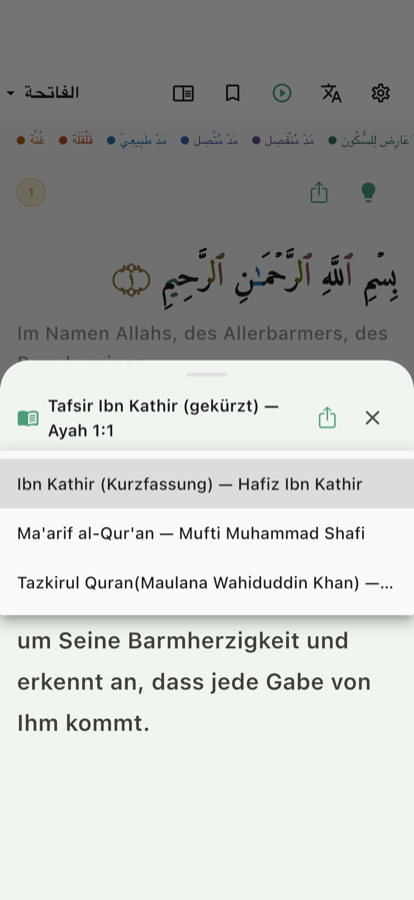
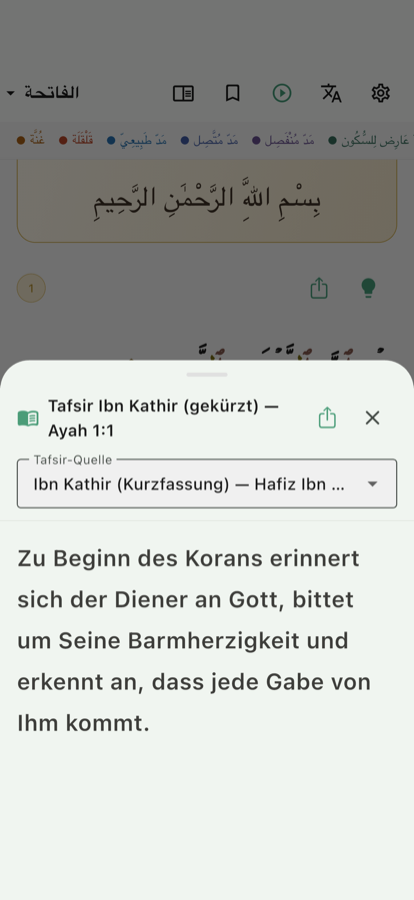
Fix onboarding guide images showing English sheet and hidden tafsir
Two guide images were wrong in all eight locales.

03-listen-ayah shipped the hardcoded-English "Play All options" sheet.
That sheet only appears when the surah is not fully cached, and the
fixture seeded the audio cache under reciter 1 while the app asks for
reciter 12 -- so the reader saw 0/7 downloaded, offered the sheet, and
then streamed a remote URL that fails on the simulator, which is also
why the player bar died within 100ms of appearing. Seeding the reciter
the app actually selects (and pinning the setting rather than trusting
the app default to stay put) removes the sheet and gives playback a
real file, so the bar stays up long enough to capture. The capture now
also asserts the sheet strings are absent -- nothing checked that
before, which is exactly how the bug shipped.

02-tafseer opened the source picker, whose menu covers the entire sheet:
the image showed a list of source names and none of the tafsir text it
is meant to be teaching. The closed selector already shows the source is
switchable, so the menu is no longer opened.

en/06-mushaf-bookmark is left at its previous bytes; this run rendered
the rub-el-hizb ornament through a fallback font, which is a capture
flake, not a change to that screen.

diff --git a/integration_test/app_store_screenshots_test.dart b/integration_test/app_store_screenshots_test.dart
@@ -104,8 +104,11 @@ Future<void> _captureBookmarkOnboardingAsset(
 /// Starts playback so the audio player bar is on screen, then captures it for
 /// onboarding page 3.
 ///
-/// Tapping play first opens a "Play All options" sheet whose strings are
-/// hardcoded English. That sheet is dismissed and never captured.
+/// Al-Fatihah is seeded as fully downloaded, so the reader plays straight from
+/// its offline cache. That matters twice over: the hardcoded-English "Play All
+/// options" sheet is only shown for a partially cached surah, and a real file
+/// on disk keeps playback -- and therefore the player bar -- alive long enough
+/// to capture.
 Future<void> _captureListenOnboardingAsset(
   WidgetTester tester,
   IntegrationTestWidgetsFlutterBinding binding,
@@ -113,51 +116,32 @@ Future<void> _captureListenOnboardingAsset(
   await tester.tap(find.byIcon(Icons.play_circle_outline).first);
   await _finishTransition(tester);
 
-  // The sheet only appears when the surah is not fully cached, and it can take
-  // a moment to animate in, so poll rather than assuming it is already there.
-  final streamOption = find.text('Play now (stream missing ayahs)');
-  await _pumpUntilFound(tester, streamOption, timeoutSeconds: 5);
-  if (streamOption.evaluate().isNotEmpty) {
-    await tester.tap(streamOption);
-  }
-
-  // Poll tightly from the moment the option is tapped. `_playingAyahNumber` is
-  // set synchronously before playback begins, so the bar is on screen almost
-  // immediately -- but if the audio stream stalls the reader resets that state,
-  // so a `pumpAndSettle` here can easily step straight over the window.
   final bar = find.byType(AudioPlayerBar);
-  await _pumpUntilFound(tester, bar, timeoutSeconds: 45);
-  if (bar.evaluate().isEmpty) {
+  final ready = await _pumpUntil(
+    tester,
+    () => bar.evaluate().isNotEmpty,
+    timeoutSeconds: 30,
+  );
+  if (!ready) {
     fail(
-      'AudioPlayerBar never appeared. '
+      'Audio player bar never appeared. '
+      'optionsSheet=${find.text('Play All options').evaluate().length} '
       'reader=${find.byType(ReaderScreen).evaluate().length} '
-      'sheets=${find.byType(BottomSheet).evaluate().length} '
       'playIcons=${find.byIcon(Icons.play_circle_outline).evaluate().length} '
       'stopIcons=${find.byIcon(Icons.stop_circle_outlined).evaluate().length}',
     );
   }
-  expect(bar, findsOneWidget);
+
+  // Guard the image, not just the flow: an English sheet in a localized
+  // screenshot shipped once already because nothing asserted it was gone.
+  expect(find.text('Play All options'), findsNothing);
+  expect(find.text('Download surah then play'), findsNothing);
+  expect(find.text('Play now (stream missing ayahs)'), findsNothing);
   await _captureOnboardingAsset(tester, binding, '03-listen-ayah');
 
   await tester.tap(find.byIcon(Icons.stop_circle_outlined));
   await _waitForUi(tester, seconds: 2);
   expect(find.byType(AudioPlayerBar), findsNothing);
-}
-
-/// Expands the Tafseer source picker so the screenshot shows that several
-/// tafsir sources are available, not just the currently selected one.
-Future<void> _openTafseerSourceDropdown(WidgetTester tester) async {
-  final dropdown = find.byKey(const ValueKey('tafseer-source-dropdown-169'));
-  expect(dropdown, findsOneWidget);
-  await tester.tap(dropdown);
-  await _finishTransition(tester);
-
-  // The selected entry is rendered both in the closed field and in the open
-  // menu, so two matches proves the menu actually expanded.
-  expect(
-    find.byKey(const ValueKey('tafseer-source-169')),
-    findsAtLeastNWidgets(2),
-  );
 }
 
 void main() {
@@ -264,11 +248,15 @@ void main() {
     expect(find.byType(TafseerSheet), findsOneWidget);
     await _captureScreenshot(tester, binding, '03-tafseer');
     if (_onboardingAssetsOnly) {
-      await _openTafseerSourceDropdown(tester);
+      // The source picker used to be opened here, but its menu covers the whole
+      // sheet -- the guide image showed a list of source names and none of the
+      // tafsir text it is meant to be teaching. The closed selector already
+      // shows that the source is switchable.
+      expect(
+        find.byKey(const ValueKey('tafseer-source-dropdown-169')),
+        findsOneWidget,
+      );
       await _captureOnboardingAsset(tester, binding, '02-tafseer');
-      // Dismiss the dropdown overlay before popping the sheet itself.
-      await tester.tapAt(const Offset(8, 8));
-      await _finishTransition(tester);
     }
     Navigator.of(readerContext).pop();
     await _finishTransition(tester);
@@ -416,11 +404,28 @@ Future<bool> _pumpUntilFound(
   Finder finder, {
   int timeoutSeconds = 60,
 }) async {
+  return _pumpUntil(
+    tester,
+    () => finder.evaluate().isNotEmpty,
+    timeoutSeconds: timeoutSeconds,
+  );
+}
+
+/// Pumps in small steps until [condition] holds, or the timeout elapses.
+///
+/// Prefer this over `pumpAndSettle` for states the app can leave on its own:
+/// settling can overshoot a transient window entirely, and it never settles at
+/// all while an indeterminate progress animation is on screen.
+Future<bool> _pumpUntil(
+  WidgetTester tester,
+  bool Function() condition, {
+  int timeoutSeconds = 60,
+}) async {
   for (var i = 0; i < timeoutSeconds * 10; i++) {
-    if (finder.evaluate().isNotEmpty) return true;
+    if (condition()) return true;
     await tester.pump(const Duration(milliseconds: 100));
   }
-  return finder.evaluate().isNotEmpty;
+  return condition();
 }
 
 /// Blocks until the reader has actually rendered ayahs.
@@ -649,9 +654,16 @@ String _localizedAlBaqarahName(String languageCode) {
 /// take its `playFile` branch. Silence keeps the run quiet while genuinely
 /// staying in the playing state.
 Future<void> _seedOnboardingRecitation() async {
-  const reciterId = 1;
+  // Must match the reciter the app will actually ask for. The cache is keyed by
+  // reciter id, so seeding a different one reads as "0 ayahs downloaded": the
+  // reader then shows its English "Play All options" sheet and streams a remote
+  // URL that fails on the simulator. Pin the setting rather than relying on the
+  // app default staying put.
+  const reciterId = 12;
   const surahNumber = 1;
   const ayahCount = 7;
+
+  await Hive.box('settings').put('reciter_id', reciterId);
 
   final directory = await getApplicationDocumentsDirectory();
   final audioDir = Directory('${directory.path}/onboarding-audio');
